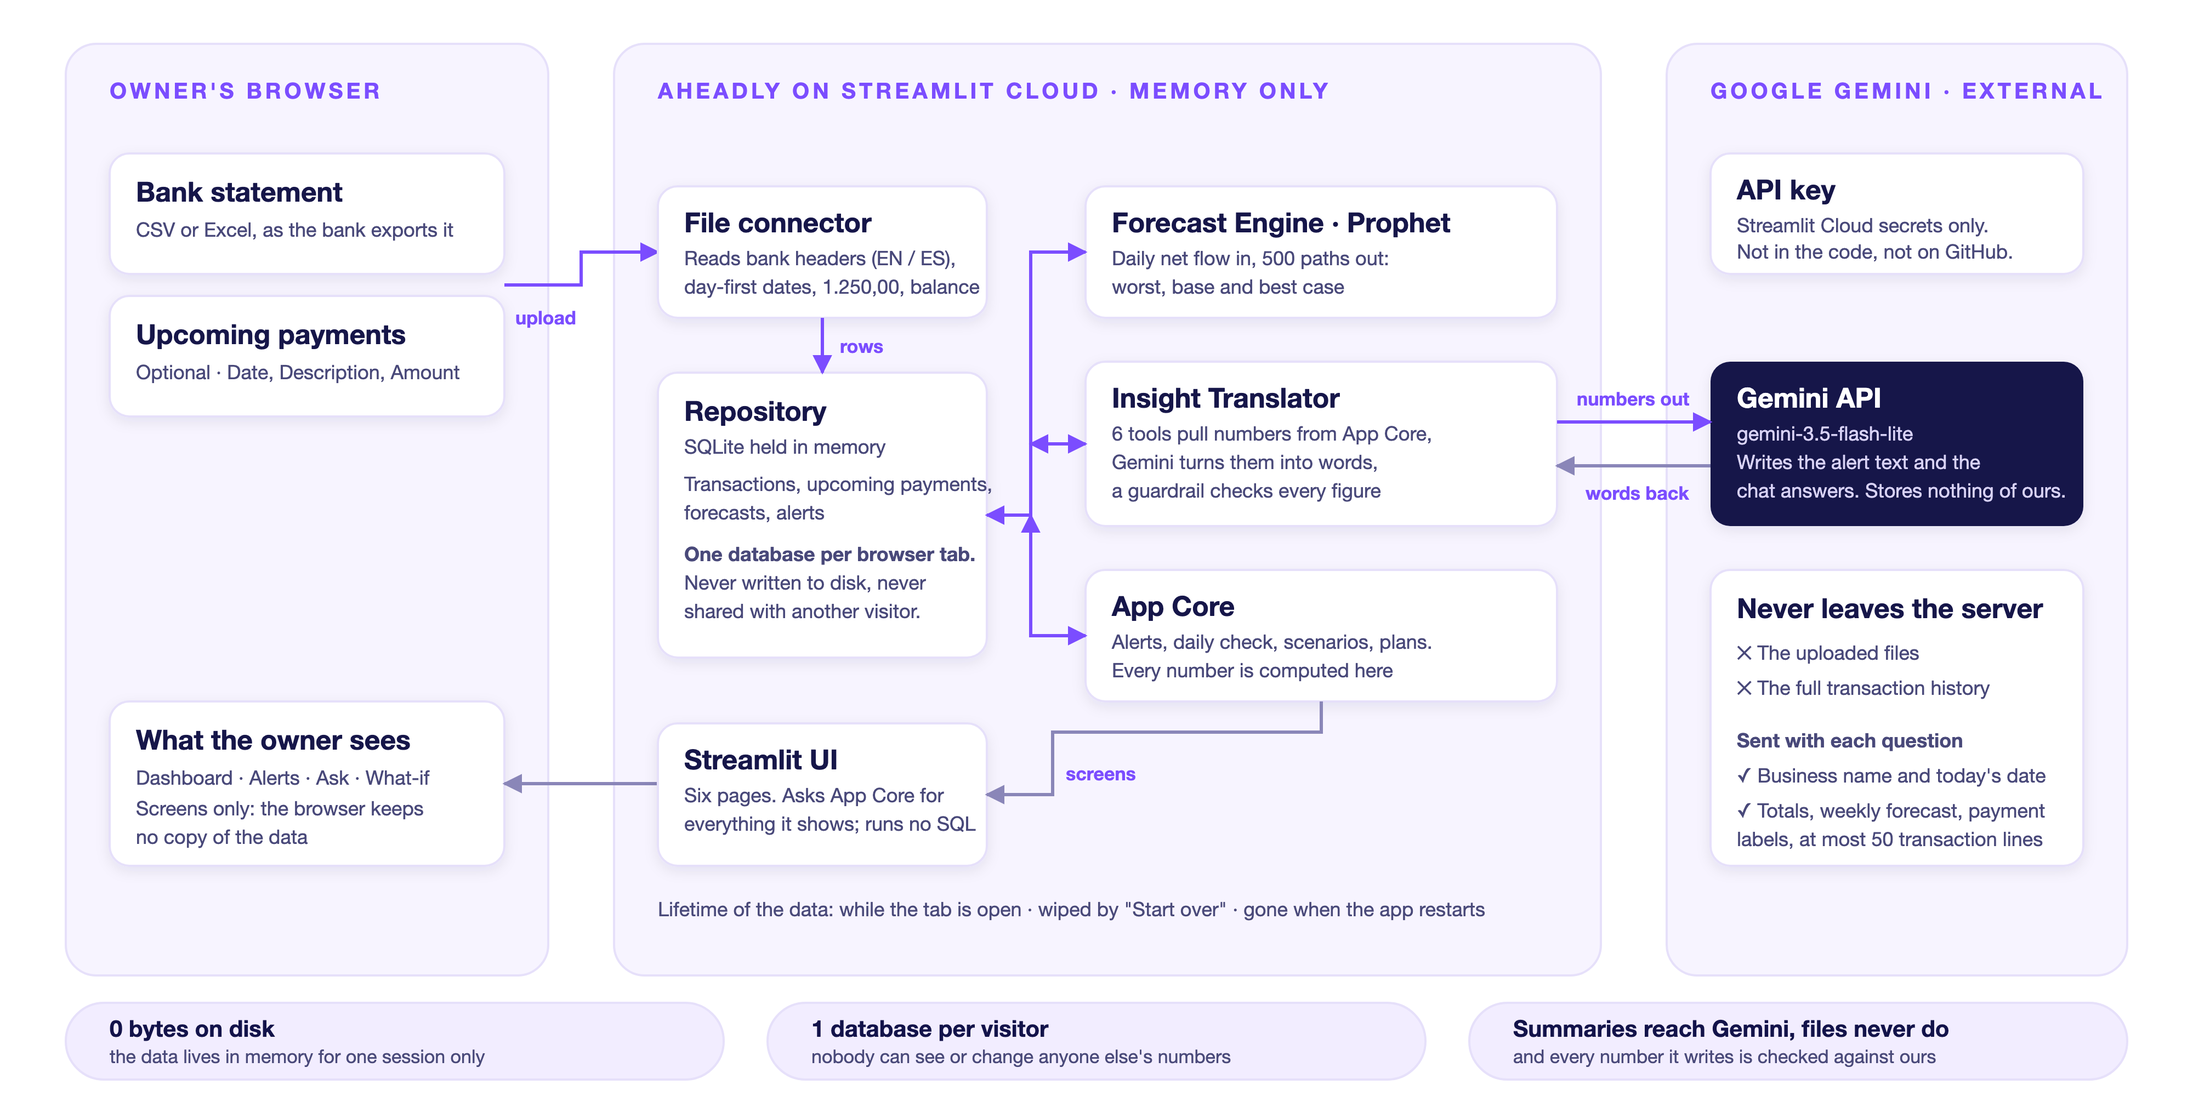
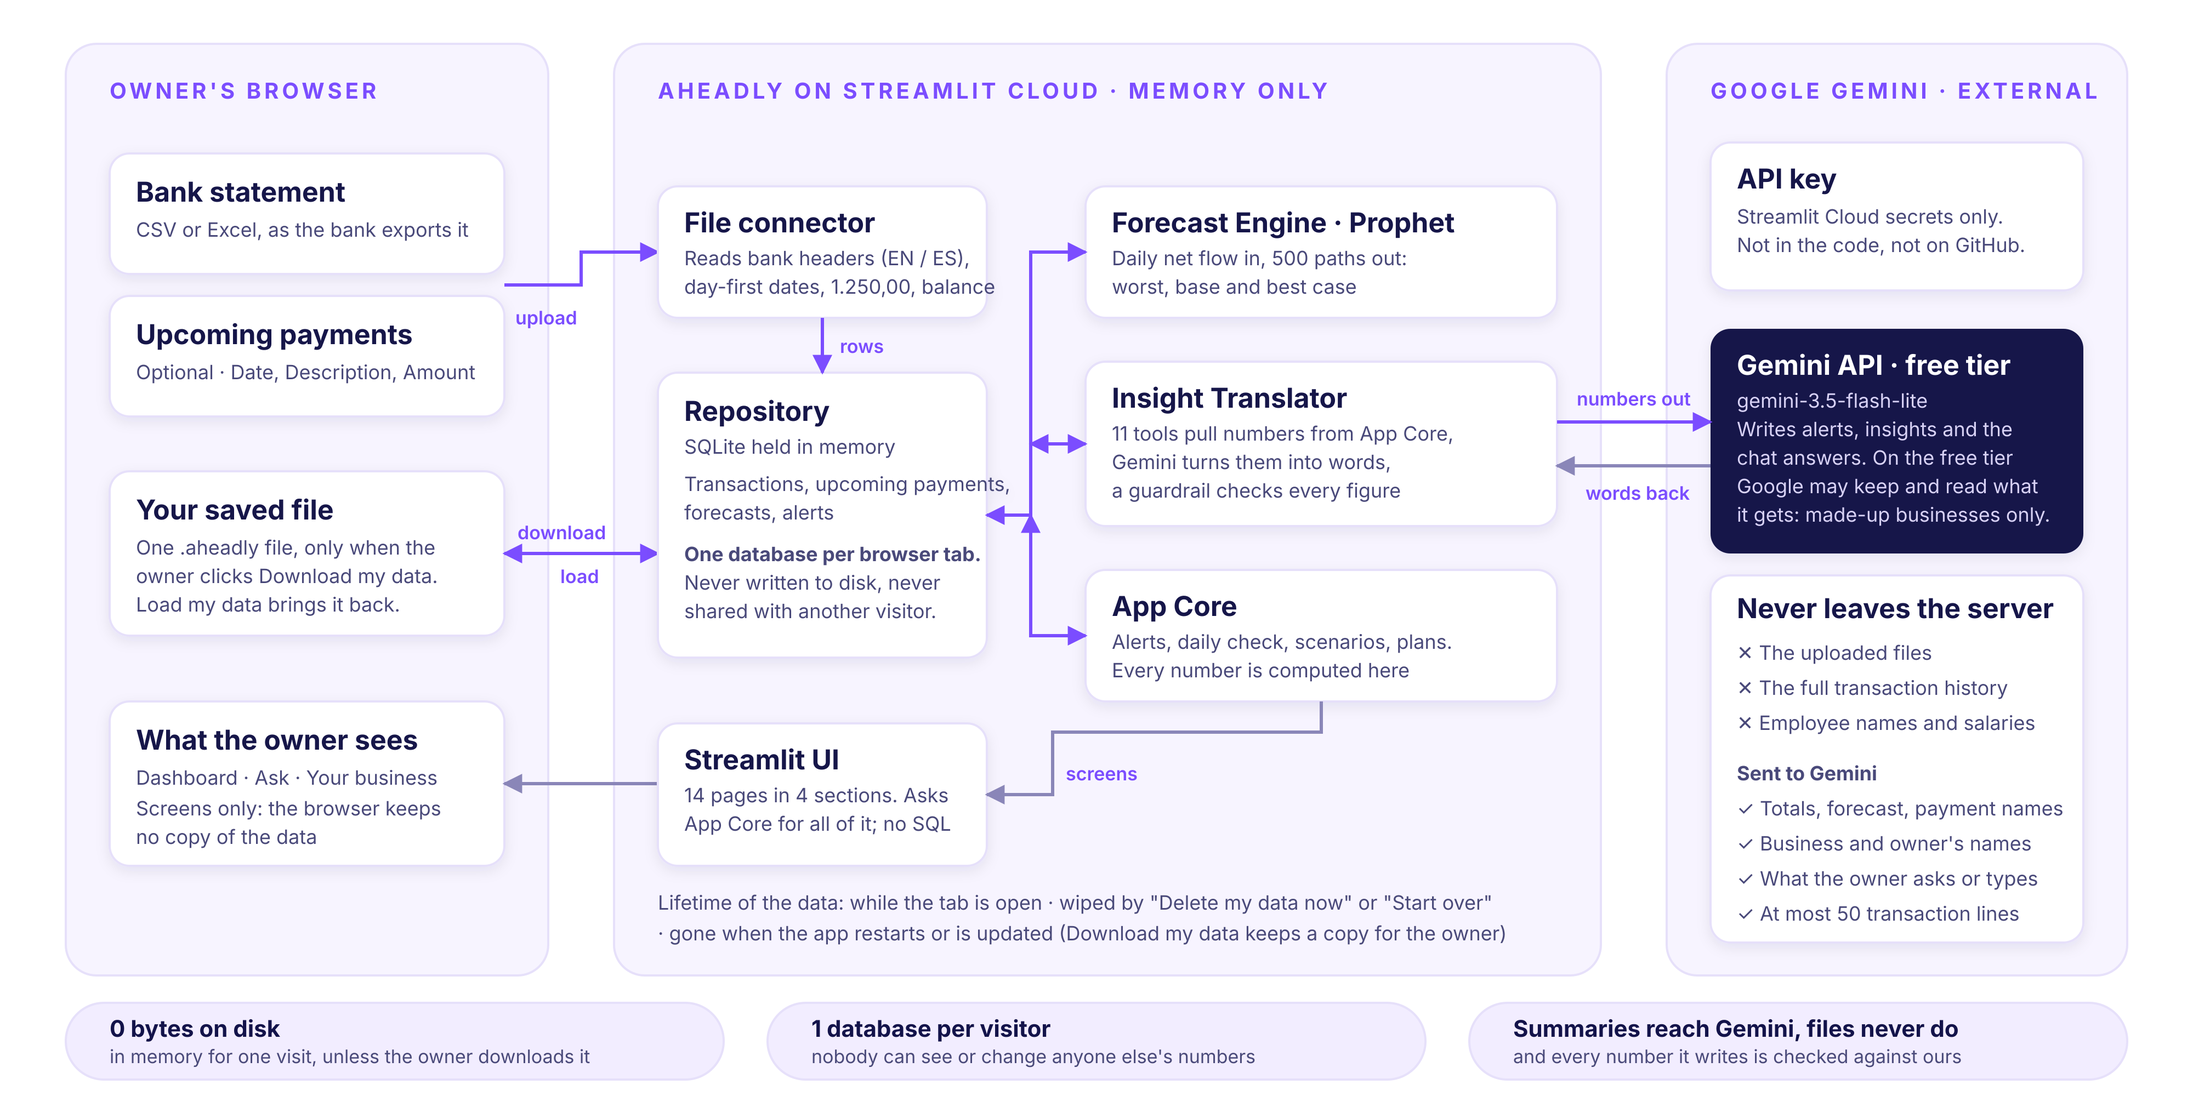
Docs: data-flow diagram up to date with 5.1/5.2, sample-files note, roadmap issues 22, 26, 36, 39
Claude-Session: https://claude.ai/code/session_017ETjuRVfbiJHo9UmX4vQuL

diff --git a/docs/ROADMAP.md b/docs/ROADMAP.md
@@ -2,7 +2,7 @@
 
 > **For whoever builds the final version (and their Claude).** One person builds everything, in the order below. This is the plan from the Milestone 2 check-in to the final demo; `PROGRESS.md` says where the work stands. The team also has a plain-language version of this plan.
 >
-> Written on 2026-11-11 from `main` after PR #1 (69 tests passing, CI green, live site checked with Gemini `gemini-3.5-flash-lite` and Prophet). **Last updated 2026-11-17 after 5.3 (glossary)** (593 tests: 584 pass, 8 wait for later items, 1 needs Prophet). Keep it updated: every new idea, decision or change of plan goes here the same day (and into the team's plain-language version). Read `aheadly-build-kit/AHEADLY_APP_SPEC.md` and `aheadly-build-kit/COURSE_GUIDE.md` first; re-check file and function names below if the code has moved on.
+> Written on 2026-11-11 from `main` after PR #1 (69 tests passing, CI green, live site checked with Gemini `gemini-3.5-flash-lite` and Prophet). **Last updated 2026-11-17 after 5.3 (glossary) and bringing Laura's Nov 17 commits into `Migue`** (594 tests: 585 pass, 8 wait for later items, 1 needs Prophet). Keep it updated: every new idea, decision or change of plan goes here the same day (and into the team's plain-language version). Read `aheadly-build-kit/AHEADLY_APP_SPEC.md` and `aheadly-build-kit/COURSE_GUIDE.md` first; re-check file and function names below if the code has moved on.
 
 ---
 
@@ -30,7 +30,7 @@
 
 ## 2. Current state (what exists, where)
 
-**Progress (work on branch `Migue`, merged into `main` by pull request):** Milestone 2 presented Thu Nov 12; the professor has the repo link. After the presentation the pull request `Migue` → `main` was merged (Nov 12), Laura rebooted the live app, and the live site was checked page by page with the example bakery (Gemini `gemini-3.5-flash-lite` and Prophet): everything works, findings in issues 18–22. Phase 1, 2 and 3 done (1.1–3.6) and live (Phase 3 merged by pull request #4 on Nov 13); Phase 4 done (4.1–4.3), merged by pull request #5 (Nov 13) and checked on the live site after Laura's reboot (Nov 16; issues 27–29, fixed with R.1). Miguel then reviewed the app with the example bakery: the agreed changes are Phase R below (R.1–R.3), done before Phase 5; Phase 6 (more AI) comes after Phase 5. Phase R done (R.1 polish, R.2 sidebar regrouping, R.3 suggestions you can work with and what the owner tells us), merged by pull request #6 (Nov 16) and checked on the live site with no reboot (issue 19's fix held; issues 30–31). Then everything was reviewed (code, GitHub, documents, the live and the local app; issues 32–37, DECISIONS #52). 5.1, 5.2 and 5.3 done on `Migue` (Nov 17; issue 38: only made-up businesses for the class). Next: a pull request for the review fixes and 5.1–5.3 and the live check, then 5.4. Test-business scorecard: 87 checks pass, 8 wait for later items (`PENDING` in `tests/test_businesses.py`), 0 fail. Details per item: "Built" notes in section 4 and `PROGRESS.md`.
+**Progress (work on branch `Migue`, merged into `main` by pull request):** Milestone 2 presented Thu Nov 12; the professor has the repo link. After the presentation the pull request `Migue` → `main` was merged (Nov 12), Laura rebooted the live app, and the live site was checked page by page with the example bakery (Gemini `gemini-3.5-flash-lite` and Prophet): everything works, findings in issues 18–22. Phase 1, 2 and 3 done (1.1–3.6) and live (Phase 3 merged by pull request #4 on Nov 13); Phase 4 done (4.1–4.3), merged by pull request #5 (Nov 13) and checked on the live site after Laura's reboot (Nov 16; issues 27–29, fixed with R.1). Miguel then reviewed the app with the example bakery: the agreed changes are Phase R below (R.1–R.3), done before Phase 5; Phase 6 (more AI) comes after Phase 5. Phase R done (R.1 polish, R.2 sidebar regrouping, R.3 suggestions you can work with and what the owner tells us), merged by pull request #6 (Nov 16) and checked on the live site with no reboot (issue 19's fix held; issues 30–31). Then everything was reviewed (code, GitHub, documents, the live and the local app; issues 32–37, DECISIONS #52). 5.1, 5.2 and 5.3 done on `Migue` (Nov 17; issue 38: only made-up businesses for the class), in pull request #7 with the review fixes, waiting for a teammate's approval (issue 22). Next: merge it and check the live site, then 5.4. Test-business scorecard: 87 checks pass, 8 wait for later items (`PENDING` in `tests/test_businesses.py`), 0 fail. Details per item: "Built" notes in section 4 and `PROGRESS.md`.
 
 - **Session / config:** `aheadly/core/session.py`, `aheadly/config.py`, `aheadly/ui/bootstrap.py` (`get_settings` not cached; `get_engine` / `get_llm` / `_shared_core` cached per code fingerprint `aheadly/version.py`, so a deploy can't reuse old objects; `start_page` reads the browser time zone).
 - **Import:** `aheadly/data/connectors/csv_connector.py`: real bank exports (comma/semicolon/tab, UTF-8/Windows-1252, preambles, Spanish months, Latin American amounts, newest-first), Balance column checked line by line, stable content-hash ids, card statements (owed balance), account names from file names, `read_upcoming` with skipped-line count. Several files per upload: `AppCore.connect_files`. The owner's own files: `aheadly/data/connectors/owner_files.py` (`read_owner_file`: five kinds from the column titles), `AppCore.read_owner_file` / `use_owner_file` / `uploaded_files`.
@@ -71,13 +71,13 @@
 19. After a merge to `main` the live app kept the old page list (`KeyError: PAGES["questions"]`) until Laura rebooted it from share.streamlit.io → after every merge, check the live site and ask Laura to reboot if needed (only she can). Happened again after PR #4 (2026-11-13: the new What-if page met the old `copy.py`, `AttributeError: STRESS_TITLE`). Fix (2026-11-13, with 4.1): `app.py` calls `version.forget_old_code()` on every run; when the files on disk no longer match the code the process loaded, every `aheadly` module is dropped and imported again, so a merge no longer needs a reboot. After PR #5 (2026-11-13) the live site still showed `ImportError` on `forget_old_code`: the running process held the old `aheadly/version.py`, which didn't have it, so one more reboot was needed. R.1 makes `app.py` reload `version.py` from disk first, so even an update to that file can't need a reboot.
 20. Chat: "What if I move the new oven payment to next month?" moved it to Dec 31 (end of next month) rather than about a month later (Dec 14); the answer is still right for the date it picked. Seen again on the live site after Phase R; the chat tool now tells the connected model "next month" means the same day next month (DECISIONS #52); the offline planner keeps the end of next month (the canonical demo tests rely on it) → re-check on the live site after the next merge.
 21. ~~Questions page: after typing in "Anything coming up?", the first click on "Read it" only saves the text, a second click reads it; Settings' "AI status" shows technical text (`.env`, `LLM_PROVIDER=…`) to owners~~ fixed in the review after Phase 3 (no button waits for typed text any more; Settings says in plain words what the AI does).
-22. Does `main` have branch protection (a teammate's approval before merging, as taught in class 17)? This merge needed no approval → the team decides.
+22. ~~Does `main` have branch protection (a teammate's approval before merging, as taught in class 17)?~~ Yes since Nov 17: a pull request into `main` needs one approving review from someone else with write access (seen on pull request #7), so ask a teammate to approve before merging.
 
 **From the review after Phase 3 (2026-11-12, DECISIONS #42):** code, documents, GitHub and the app checked again. Fixed then: suggestions, stress tests and financing could carry over to the next business after a reset (run ids start again at 1; `reset()` now clears them); *Save as my plan* on a financing action crashed (the database allows six kinds; the borrowing lines are "other"); a saved what-if's own lines stayed marked as a what-if's, so suggestions and stress tests ignored them (now `source='plan'`); moving a payment the owner listed (the quarterly flour order) out of the 8 weeks and saving it brought the statement's copy back, so the saved plan disagreed with what *Test this* showed (now matched at the day it was first due, new column `first_due_date`, migration 2); the offline chat didn't understand "How much can I safely spend?"; the stress test "main supplier 10% dearer" picked the bakery's flour payment, which the owner's own "Quarterly flour order" replaces in the forecast, so it changed nothing (now only a supplier payment the forecast counts); Save with no answer on Questions hid the Skip button; Settings said "built-in templates (no AI) (template)"; unused `DEMO_MODE` setting, `drop_duplicates` and `APP_NAME` removed; the pages' remaining fixed words moved to `copy.py`; decision #12 back in order; README brought up to date (demo script with the example bakery, nine chat tools, Phase 3). Still open:
 23. ~~Phase 3 is only on `Migue`~~ merged by pull request #4 (2026-11-13); Laura's reboot needed again (issue 19). After the reboot every page was checked on the live site with the example bakery (dashboard, questions answered, alerts and the financing helper, stress tests, a what-if, the chat, how we built it, settings and start over): all fine. Two small things found there, fixed in 4.2: the alert's "Test a what-if" button was cut off ("Test a wha…") and the alert called payroll by the bank's wording ("Pago nomina").
 24. `docs/screenshots/` are from Milestone 2 → retake with 5.5 (and the check-in document stays as submitted).
 25. GitHub: the repository's About box has no description or website (Laura, as owner: "AI cash-flow co-pilot for small businesses", https://aheadly.streamlit.app); pull request #3 is still titled "DO NOT MERGE until after Milestone 2…" although it was merged on purpose (rename for whoever reads the history).
-26. `AppCore.end_plan_item`, `planned_items` and `answer_payee` (and `Repository.list_insights`, seen in the review after Phase R) are used only by tests (How we built it sets an end date through `update_plan_item`) → remove or use them when splitting `app_core.py` (issue 14; it's now ~1,700 lines).
+26. `AppCore.end_plan_item` and `answer_payee` (`planned_items` stays: Laura's sample-files test uses it, Nov 17) (and `Repository.list_insights`, seen in the review after Phase R) are used only by tests (How we built it sets an end date through `update_plan_item`) → remove or use them when splitting `app_core.py` (issue 14; it's now ~1,700 lines).
 
 **From the live check after Phase 4 (2026-11-16, Laura's reboot; example bakery, Gemini):** every page loads; the insights, the four charts and their summaries, the alert and the chat work. Found and fixed with R.1:
 27. ~~Questions: "What is TRANSF 0045 REF 88213?" (money out) was saved as *Other income*: the list still showed the AI's guess when the owner had written "loan repayment (equipment loan)", and the list won~~ the owner's words now win when they name a kind of payment, and an AI guess that goes the wrong way (income for money out, or the reverse) isn't offered.
@@ -93,8 +93,11 @@
 33. Two pages still reach past App Core: Connect accounts builds the bank-file readers itself, the dashboard uses two alert-rule helpers → with issue 14's split (e.g. `AppCore.upload_statements(files)`).
 34. An update to the live site starts every open visit over (when the code changes, the visit's data is cleared), so an owner in the middle of it loses their answers → 5.1's download is the way back (said next to the button and on the privacy page, 5.2); merge at quiet times.
 35. The costume shop (very seasonal): a bad month could take it to −$10,255 while the most likely case stays at $6,795, and the backtest misses its typical day by 98%, so its "keep an eye on it" alert reads more alarming than the business is → agreed with Miguel (2026-11-16): a Should after Phase 5 (item 6.3), not before 5.1.
-36. Files nothing uses: `assets/app_icon_512.png`, `assets/logo_full_transparent.png`, `assets/persona_maria_portrait_square.jpg`; and the Milestone 1 diagrams (`docs/*_diagram.svg`) don't show what was added since → the team decides about the images; the diagrams are redrawn with 5.5 (with the screenshots, issue 24).
+36. Files nothing uses: `assets/app_icon_512.png`, `assets/logo_full_transparent.png`, `assets/persona_maria_portrait_square.jpg`; and the Milestone 1 diagrams (`docs/*_diagram.svg`) don't show what was added since → the team decides about the images; the diagrams are redrawn with 5.5 (with the screenshots, issue 24). Laura added `docs/data_flow_diagram.svg` / `.png` (where the owner's data goes, Nov 17); brought up to date the same day: Gemini's free tier may keep what it gets (it said "stores nothing of ours", issue 38), 11 chat tools, 14 pages in 4 sections, the saved file (5.1), *Delete my data now* (5.2), what goes to the AI as on the privacy page.
 37. The Suggestions sub-tab repeats the same fix under each bad surprise (the bakery: "Move New oven" five times) → nice to have: fold the bad surprises' groups or group by fix.
+
+**From Laura's commits on `main` (2026-11-17, brought into `Migue` the same day):** new demo upload files in `data/samples/` (a bank statement and an upcoming-payments file, CSV and Excel, from `scripts/make_sample_export.py`, `tests/test_upload.py::test_sample_files_load_together`) and the data-flow diagram (issue 36). Found:
+39. Two bakeries called Panadería La Esquina: `data/samples/` is the original demo bakery (`seed_demo`, dated from the day the files are made, so regenerate them on demo day), *Try the example bakery* is the test business (always as of Nov 11, 2026); their numbers differ → decide with Laura which one 5.5 shows (README now says they differ).
 
 **Found while building 5.2 (2026-11-17):**
 38. The live site's AI is Gemini on Google's **free tier**. Under Google's terms for it, Google may keep what it receives, use it to improve its products, and people at Google may read it; Google asks not to send sensitive, confidential or personal information. Aheadly sends payment names as the bank writes them (they can hold people's names), the business's and owner's names, chat questions and up to 50 transactions per chat question. Fine for the class demo with the example business; not for real owners' statements. The privacy page now says so plainly (`LLM_PAID_TIER` switches its wording). → decided with Miguel (2026-11-17): the live site stays on the free tier and the class project only uses made-up businesses (the example and the test businesses), never a real owner's statements; the privacy page says why. If the product goes ahead: billing on for the Gemini key's Google Cloud project and `LLM_PAID_TIER=true` in the app's secrets. Before real owners use it either way: send less (mask people's names in payment names before they go to the AI) → added to Nice to have / long term.

diff --git a/README.md b/README.md
@@ -66,7 +66,7 @@ Rules we keep: the UI only calls `AppCore`; only the Insight Translator talks to
 | `aheadly/data/` | `schema.sql` + numbered migrations, `Repository`, `seed_demo`, `connectors/` (bank statements, the owner's own files) |
 | `aheadly/jobs/` | `daily_run` (cron-able) |
 | `tests/` | pytest: unit tests per component, the demo script as a functional test, and `test_businesses.py`, which runs the six test businesses in `tests/businesses/` against their answer keys |
-| `docs/` | `ROADMAP.md` (the plan to the final version, kept current), UML diagrams, milestone check-in |
+| `docs/` | `ROADMAP.md` (the plan to the final version, kept current), UML diagrams, `data_flow_diagram` (where the owner's data goes), milestone check-in |
 
 ## How the AI works
 
@@ -106,4 +106,4 @@ A list of upcoming **one-off** payments and expected income (`Date, Description,
 
 No files at hand? On Connect accounts, **Try the example bakery** loads Panadería La Esquina (`aheadly/examples/`): a year of statements from the test businesses plus the one-off payments its owner knows about. It is always shown as of the day after its statement ends (Nov 11, 2026). Settings → Start over goes back to your own upload.
 
-Two demo upload files for the demo bakery are in `data/samples/` (CSV and Excel of each): a bank export and an upcoming-payments file with one-off items only. Their dates are relative to the day they were generated, so regenerate them on demo day with `uv run python -m scripts.make_sample_export`, upload both on Accounts and leave the balance field empty. For realistic files, use the statements in `tests/businesses/<business>/statements/`: six test businesses made separately from the code, each with an answer key (DECISIONS #25).
+Two demo upload files for the demo bakery are in `data/samples/` (CSV and Excel of each): a bank export and an upcoming-payments file with one-off items only. Their dates are relative to the day they were generated, so regenerate them on demo day with `uv run python -m scripts.make_sample_export`, upload both on Your business → Connect accounts and leave the balance field empty. They are the original demo bakery (`aheadly/data/seed_demo.py`), not the same numbers as *Try the example bakery*. For realistic files, use the statements in `tests/businesses/<business>/statements/`: six test businesses made separately from the code, each with an answer key (DECISIONS #25).

diff --git a/PROGRESS.md b/PROGRESS.md
@@ -55,6 +55,7 @@ Short state file so a fresh session (or teammate) can continue.
 - Download / Load my data, roadmap 5.1 (2026-11-17): *Download my data* (Connect accounts, Settings) saves everything about the business in one `.aheadly` file; *Load my data* brings the visit back exactly as it was (answers, plan, what the owner told us, alerts, chat), after checking the whole file first; a wrong, damaged or newer file is refused with a reason and nothing changes (DECISIONS #53).
 - Privacy page and delete my data, roadmap 5.2 (2026-11-17): a Privacy sub-tab next to Settings says what Aheadly keeps (only this visit), what goes to the AI (checked against the code) and what the connected AI's terms mean, and *Delete my data now* wipes the visit. Found on the way: the live site's Gemini is on Google's free tier, whose terms let Google keep and read what it receives (roadmap issue 38: the class project uses only made-up businesses) (DECISIONS #54).
 - Glossary, roadmap 5.3 (2026-11-17): what the money words mean (base, worst and best case, the chance of dipping below the line, safe to spend…), as an ⓘ next to them on the dashboard and the results, and all together under *What the words mean* on the dashboard and the alerts page (DECISIONS #55).
+- Laura's Nov 17 commits on `main` (demo upload files in `data/samples/`, data-flow diagram) brought into `Migue`; the diagram brought up to date with 5.1 and 5.2 (Gemini's free tier may keep what it gets, the saved file, 11 chat tools) and the README says the sample files are a different bakery from the example (roadmap issues 36 and 39). Pull request #7 (review fixes + 5.1–5.3) waits for a teammate's approval, now required on `main` (issue 22).
 
 ## Next (for the final demonstration)
 Follow `docs/ROADMAP.md` (one builder, about four weeks; Must / Should / Nice, sizes, dependencies, cut order). In short:
